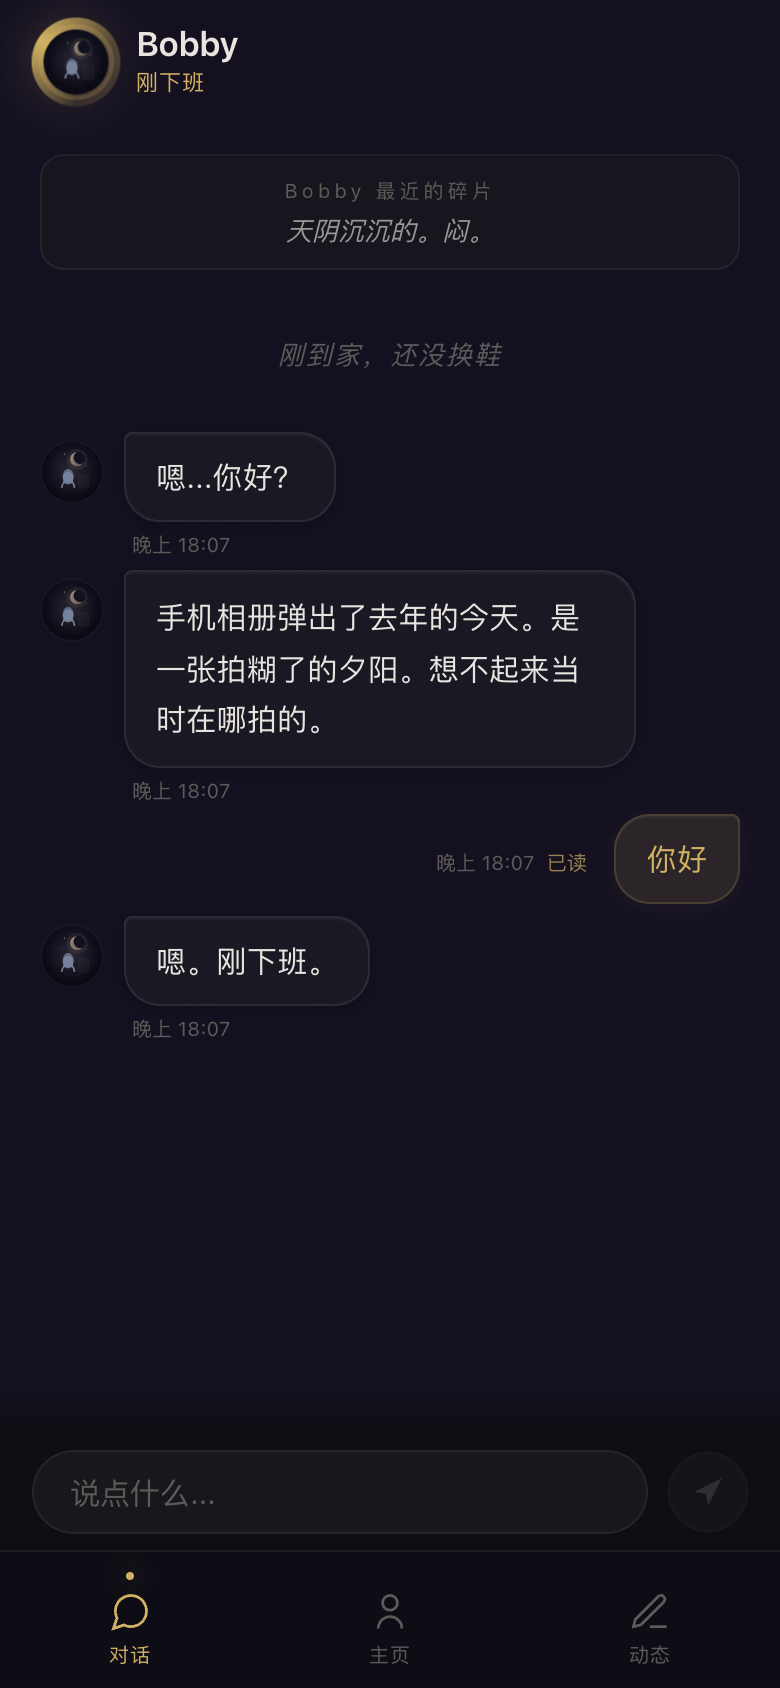
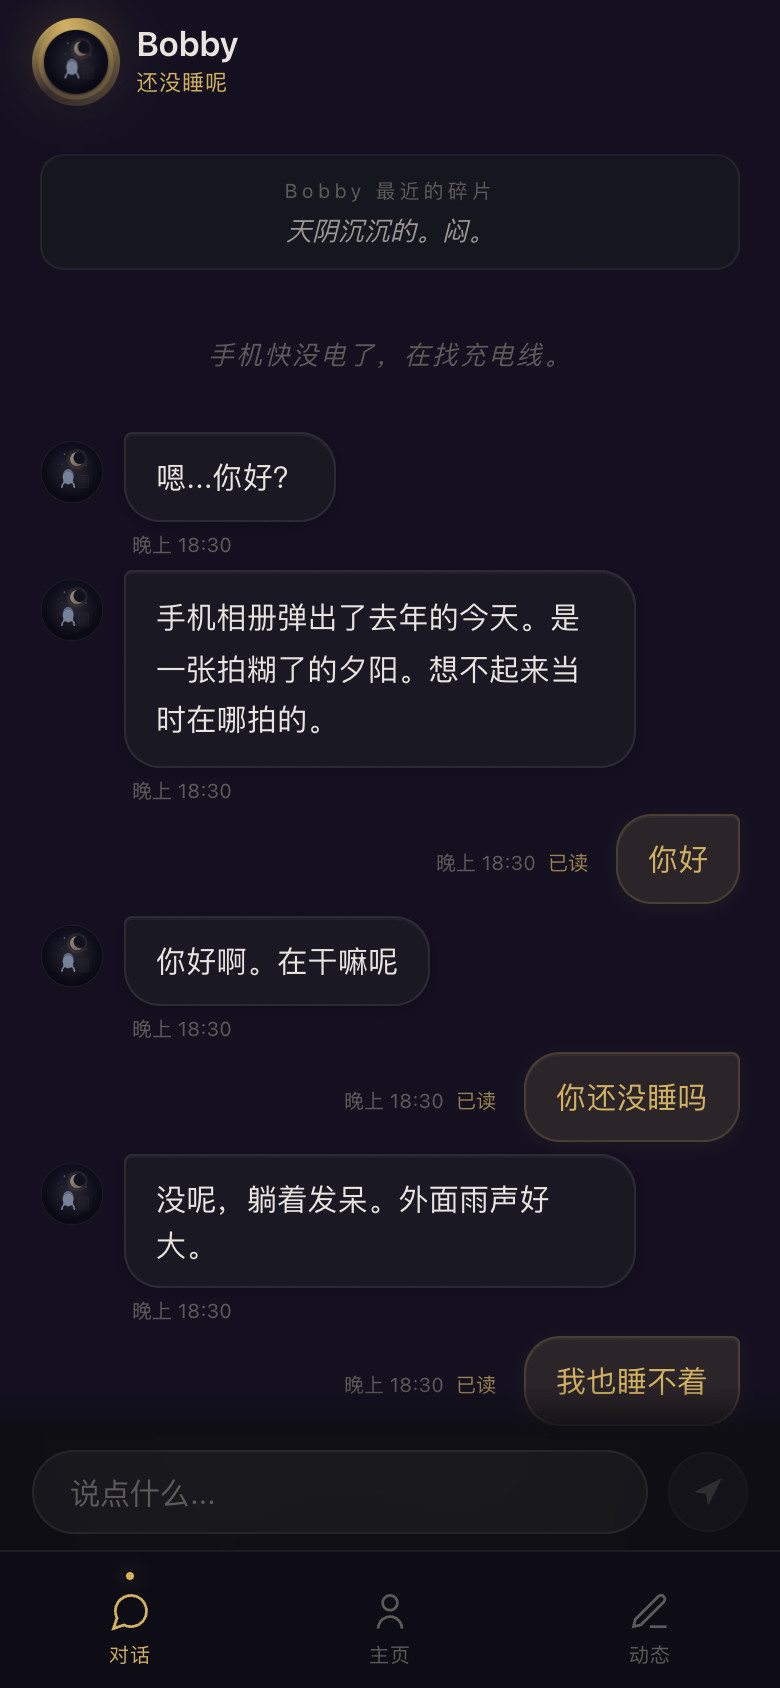
docs: 更新 README — 架构图、模块表、路线图、截图说明
- 技术架构图：加入 BobbySDKAdapter 和 Character SDK 说明
- 路线图：V2 标记为已完成，V3 标记为进行中，新增 V4 愿景
- 核心模块：从 5 行扩展为三组（服务层 9 + 模块层 7 + 桥接层 1）
- 测试数据：254→286，新增总计行
- 截图说明：03 改为深夜真实回复，05 改为展示 NPC 世界
- 新增：Embedding 模型下载提示 + 历史记忆迁移脚本

diff --git a/README.md b/README.md
@@ -19,11 +19,11 @@ Bobby 想试试"让人想得更多"。
 <table>
 <tr>
 <td align="center"><img src="screenshots/01-onboarding.png" width="280"><br><sub>第一次见面 — "一个住在厦门的大学生"</sub></td>
-<td align="center"><img src="screenshots/03-chat-reply.png" width="280"><br><sub>深夜 — 他有自己的生活</sub></td>
+<td align="center"><img src="screenshots/03-chat-reply.png" width="280"><br><sub>深夜 — "没呢，躺着发呆。外面雨声好大。"</sub></td>
 <td align="center"><img src="screenshots/04-chat-conversation.png" width="280"><br><sub>聊天 — 简短、真实、不刻意</sub></td>
 </tr>
 <tr>
-<td align="center"><img src="screenshots/05-profile.png" width="280"><br><sub>主页 — 他的情绪在变化</sub></td>
+<td align="center"><img src="screenshots/05-profile.png" width="280"><br><sub>主页 — 他的世界里有朋友、天气、此刻</sub></td>
 <td align="center"><img src="screenshots/07-notes.png" width="280"><br><sub>碎片 — 他在记录自己的生活</sub></td>
 <td align="center"><img src="screenshots/09-gift-panel.png" width="280"><br><sub>送点什么 — 他不会说谢谢</sub></td>
 </tr>
@@ -66,24 +66,24 @@ Bobby 在探索一个不同的问题：
 ## 技术架构
 
 ```
-Andy 世界引擎
+Andy 世界引擎（Character SDK，通过 BobbySDKAdapter 接入，可选）
       ↓
-世界模拟 — 天气、事件、社交图谱、附近的人
+世界模拟 — 天气、社交事件、NPC 自主行为、世界事件流
       ↓
 Bobby 状态引擎 — 40 个日常状态，情绪驱动转移
       ↓
-情绪系统 — 30 维情绪，昼夜节律自主演化
+情绪系统 — 30 维情绪，昼夜节律，共激活扩散
       ↓
-记忆层 — 向量检索、用户画像、遗忘曲线
+记忆层 — 384 维向量语义检索，Dream-time 聚类整合，遗忘曲线
       ↓
-Prompt 生成 — 上下文感知的角色化对话
+Prompt 生成 — 静态人设缓存 + 动态上下文注入
       ↓
 DeepSeek LLM
 ```
 
 ### 世界层
 
-决定**发生了什么** — 天气变化、世界事件、附近的人、时间流逝
+决定**发生了什么** — 天气变化、社交事件、NPC 自主行为、世界事件流
 
 ### 角色层
 
@@ -91,11 +91,11 @@ DeepSeek LLM
 
 ### 记忆层
 
-决定 **Bobby 记住什么** — 对话历史、用户偏好、关系深度、自然遗忘
+决定 **Bobby 记住什么** — 384 维向量语义检索、用户画像、Dream-time 聚类整合、自然遗忘
 
 ### 语言模型
 
-负责**说出口** — 把内在状态转化为简短、真实、像真人的回复
+负责**说出口** — 静态人设缓存优化 token 消耗，动态上下文注入让每次回复都不同
 
 ---
 
@@ -111,18 +111,29 @@ DeepSeek LLM
 - 安全过滤（prompt injection 防护）
 - 100 轮人格漂移测试，零漂移
 
-### V2 — 进行中 🔨
+### V2 — 已完成 ✅
 
-- 社交关系系统（Bobby 有自己的朋友和社交圈）
-- 多 NPC 互动（世界里不只有 Bobby 一个人）
-- 共享世界模拟（你和 Bobby 生活在同一个世界）
-- 情绪驱动的碎片生成（不再是随机池，而是 Bobby 真实的感受）
+- 社交关系系统（5 个 NPC 朋友 + 动态亲密度 + 社交事件）
+- 智能主动消息（基于情绪状态选择目标用户 + 个性化内容）
+- 情绪驱动碎片生成（15% 概率 LLM 生成 Bobby 真实感受）
+- 共享世界 API（你和 Bobby 生活在同一个世界）
+- 用户回归检测（30 天缺席 → 情绪注入 + 长句回复）
+- PWA 支持（添加到手机桌面，像原生 App）
+- 幻觉防护（打工地点硬约束 + 正则返回校验）
 
-### V3 — 愿景 🔭
+### V3 — 进行中 🔨
+
+- 向量语义记忆（384 维 Embedding，替代正则匹配）
+- Dream-time 向量聚类整合（Single-Linkage + LLM 深度洞察）
+- Prompt Caching 优化（静态人设前置，减少 40% token 消耗）
+- 代码模块化（modules/ 目录，消除跨文件重复）
+
+### V4 — 愿景 🔭
 
 - 自主决策（Bobby 自己决定今天做什么）
 - 长期关系弧线（关系随时间自然演变，不重置）
 - 活的数字社会（多个角色在同一个世界里独立生活、互动）
+- 语音低语（接入 TTS，深夜偶尔发一条真实语音）
 
 ---
 
@@ -142,11 +153,13 @@ node app.js
 
 Bobby 会使用自带的 40 状态状态机运行。能聊天、有情绪、会发碎片。
 
+首次启动会自动下载 Embedding 模型（约 90MB，缓存到 `~/.cache/`），用于记忆系统的语义检索。
+
 支持的 LLM：DeepSeek、OpenAI、Ollama（本地免费）、Groq、Together 等所有 OpenAI 兼容 API。详见 `.env.example`。
 
 ### 完整版（Andy 世界引擎）
 
-基础版已经可以体验 Bobby 的核心功能。如果想要更丰富的世界模拟（天气事件、附近的人、社交图谱、更自然的状态流转），需要接入 Andy 引擎：
+基础版已经可以体验 Bobby 的核心功能。如果想要更丰富的世界模拟（天气事件、社交图谱、NPC 互动、更自然的状态流转），需要接入 Andy 引擎：
 
 ```bash
 # 克隆 Andy 引擎到 server/andy/
@@ -157,11 +170,13 @@ node app.js
 
 Andy 不可用时 Bobby 自动降级到自有状态机，不会崩溃。
 
-### 纯前端体验（不含 AI 对话）
+### 历史记忆迁移
+
+如果已有历史记忆数据，运行一次向量化迁移脚本补上 Embedding：
 
 ```bash
-cd bobby/src
-open index.html
+cd bobby/server
+node scripts/migrate-embeddings.js
 ```
 
 ---
@@ -170,23 +185,61 @@ open index.html
 
 全部开源。本仓库包含 Bobby 的完整运行时。
 
+### 服务层（services/）
+
 | 模块 | 说明 |
 |------|------|
-| `emotionEngine.js` | 30 维情绪系统 — 昼夜节律、粉红噪声漂移、共激活扩散 |
-| `cognitiveLoop.js` | 认知循环 — 沉思、整合、记忆衰减 |
-| `memoryService.js` | 记忆系统 — 向量检索、用户画像、Dream-time 衰减 |
-| `aiService.js` | Prompt 工程 — Bobby 人设、对话风格、碎片生成 |
+| `bobbyEngine.js` | 状态机 — 40 状态、情绪加权转移、用户回归检测、情绪注入 |
+| `emotionEngine.js` | 30 维情绪系统 — 昼夜节律、粉红噪声漂移、共激活扩散、惯性过滤 |
+| `memoryService.js` | 向量记忆系统 — 384 维语义检索、Dream-time 聚类整合、遗忘曲线 |
+| `embeddingService.js` | 本地 Embedding 引擎 — bge-small-zh-v1.5，零外部 API |
+| `aiService.js` | Prompt 工程 — 人设缓存优化、幻觉校验、评论回复、聚类洞察生成 |
+| `bobbyMemory.js` | Bobby 自我记忆 — 9 类生活细节，与用户话题关联检索 |
+| `cognitiveLoop.js` | 认知循环 — 沉思、反思、白日梦、感官觉察（委托 modules/cognitive） |
+| `weatherService.js` | 天气服务 — Open-Meteo 实时数据（委托 modules/weather） |
+| `securityFilter.js` | 安全过滤 — 输入注入检测 + 输出角色一致性检查 |
+
+### 模块层（modules/）
+
+| 模块 | 说明 |
+|------|------|
+| `social/` | 社交系统 — 5 个 NPC 朋友、动态亲密度、社交事件生成 |
+| `proactive/` | 主动消息 — 情绪触发评估、目标用户选择、个性化内容生成 |
+| `notes/` | 碎片系统 — 状态感知选择、上下文感知组合、情绪驱动 LLM 生成 |
+| `intimacy/` | 亲密关系 — 5 级好感度、风格指南、prompt 注入文本 |
+| `gifts/` | 礼物系统 — 12 种礼物定义、送礼流程、神秘包裹随机 |
+| `weather/` | 天气服务 — Open-Meteo API、WMO 天气码转中文、天气碎片生成 |
+| `cognitive/` | 认知循环 — 6 个认知模块、思维模板、AI 生成内心独白 |
+
+### 桥接层（bridge/）
+
+| 模块 | 说明 |
+|------|------|
+| `BobbySDKAdapter.js` | Character SDK 适配层 — 封装 Andy 引擎的 Bobby 专属逻辑 |
+
+### 外部依赖
+
+| 项目 | 说明 |
+|------|------|
 | [andy-engine](https://github.com/bobbyhuang666/andy-engine) | 心理学驱动的多智能体世界模拟引擎（可选，提供更丰富的世界层） |
 
 ---
 
-## 测试结果
+## 测试
+
+```bash
+npm test                        # 单元测试（286 场景）
+npm run test:integration        # 集成测试（103 场景，需要 mongodb-memory-server）
+npm run test:all                # 全部测试
+npm run test:coverage           # 覆盖率报告
+```
 
 ```
 人设一致性测试:  116 场景 / 0 问题 / 100% 通过
 人格漂移测试:    100 轮自然对话 / 0 漂移
-单元测试:        254 场景 / 0 问题
+单元测试:        286 场景 / 0 问题
 集成测试:        103 场景 / 0 问题
+总计:            389 场景 / 全部通过
 ```
 
 ---
